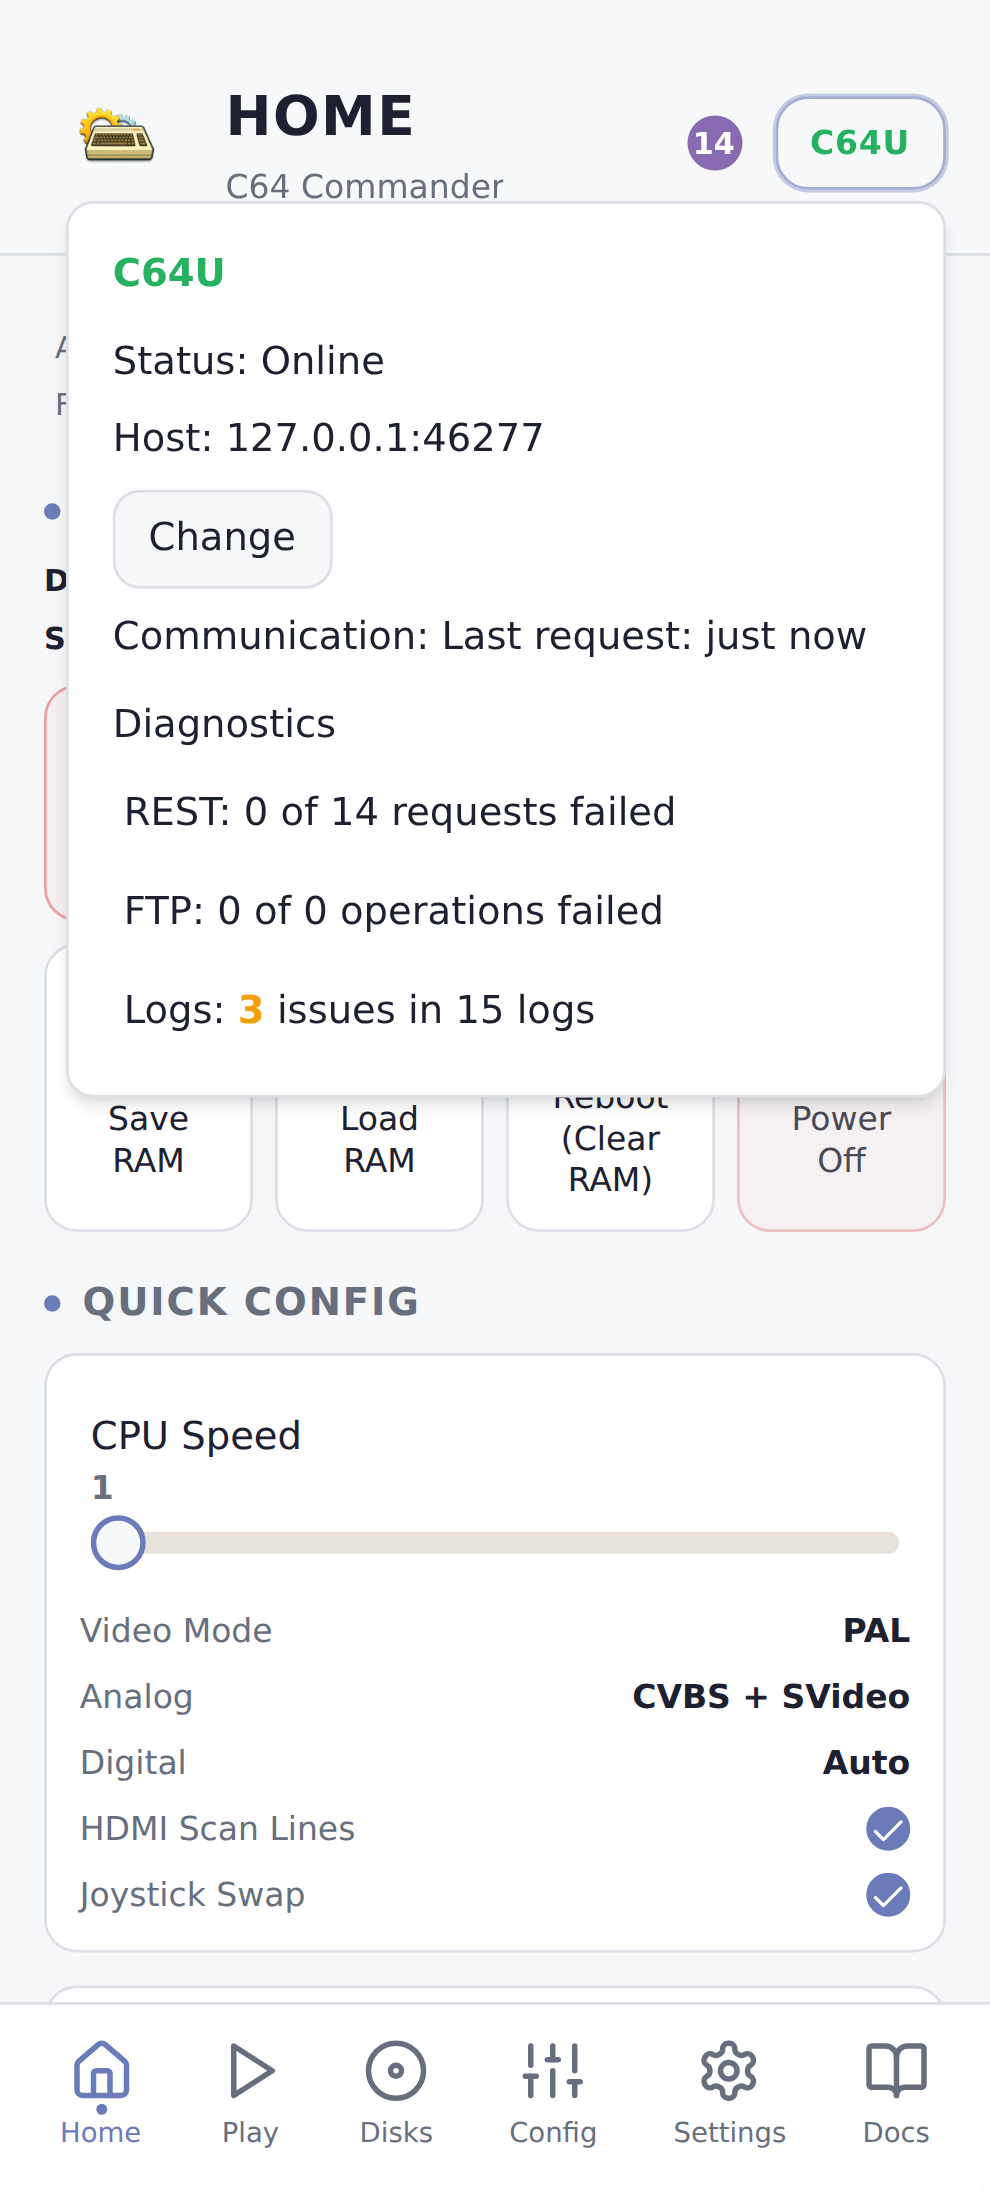
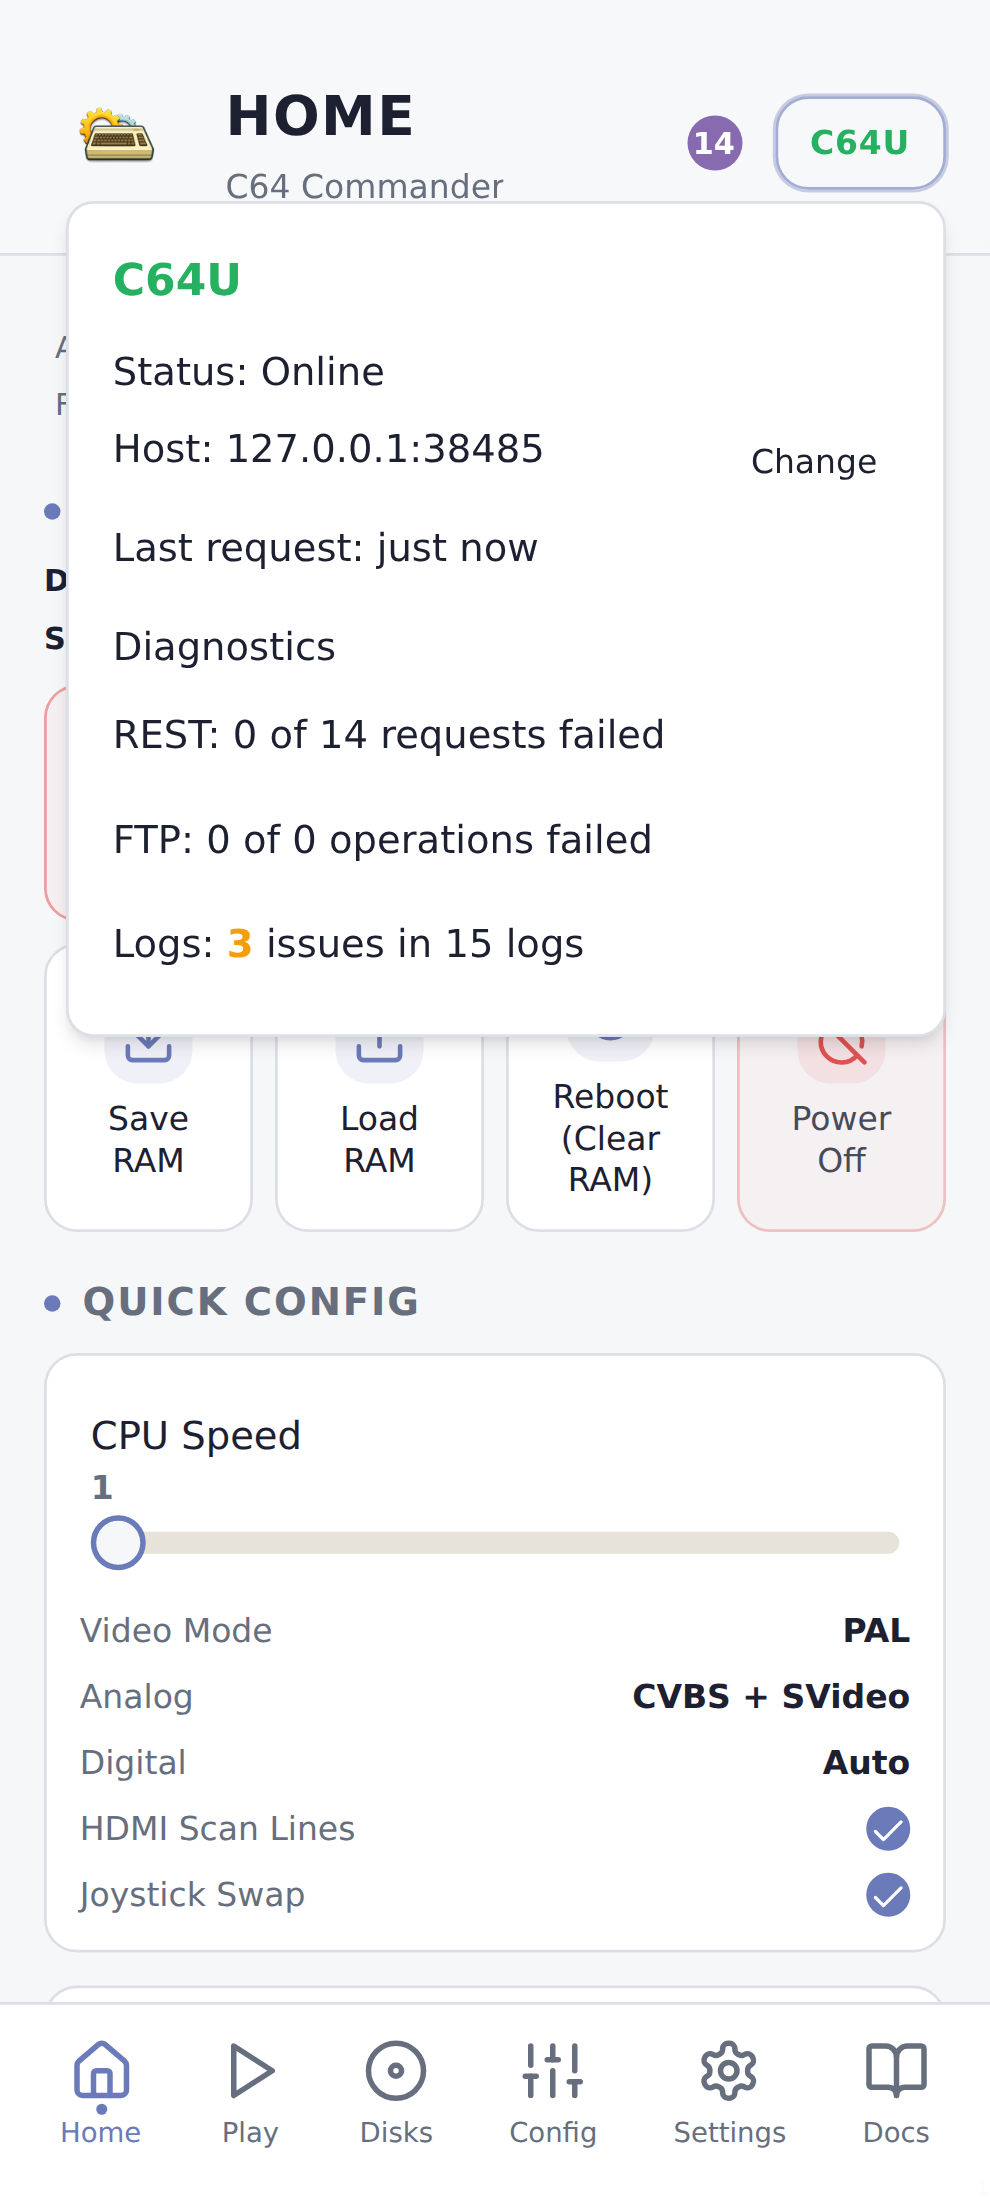
refine connection status popup structural symmetry and inline host row

diff --git a/src/components/ConnectivityIndicator.tsx b/src/components/ConnectivityIndicator.tsx
@@ -94,24 +94,19 @@ export function ConnectivityIndicator({ className }: Props) {
           ) : null}
         </button>
       </PopoverTrigger>
-      <PopoverContent align="end" className="w-80 space-y-3" data-testid="connection-status-popover">
-        <div className="space-y-1">
+      <PopoverContent align="end" className="w-80 space-y-4" data-testid="connection-status-popover">
+        <div className="space-y-3">
           <p
             className={cn(
-              'text-sm font-semibold',
+              'text-base font-semibold',
               isDemoMode ? 'text-amber-500 indicator-demo' : 'text-success indicator-real',
             )}
           >
             C64U
           </p>
-          {isDemoMode ? <p className="text-sm font-semibold text-amber-500 indicator-demo">Demo</p> : null}
-        </div>
-        <div className="space-y-2 text-sm">
+          {isDemoMode ? <p className="text-base font-semibold text-amber-500 indicator-demo">Demo</p> : null}
+          <div className="space-y-2 text-sm">
           <p><span className="font-medium">Status:</span> {status}</p>
-          <div className="space-y-2">
-            <p className="break-all">
-              <span className="font-medium">Host:</span> {configuredHost}
-            </p>
             {editingHost ? (
               <div className="flex items-center gap-2">
                 <Input
@@ -128,37 +123,42 @@ export function ConnectivityIndicator({ className }: Props) {
                 <Button size="sm" onClick={saveHostAndRetry}>Save</Button>
               </div>
             ) : (
-              <Button size="sm" variant="outline" onClick={() => setEditingHost(true)}>
-                Change
-              </Button>
+              <div className="flex items-start justify-between gap-2">
+                <p className="break-all">
+                  <span className="font-medium">Host:</span> {configuredHost}
+                </p>
+                <Button variant="ghost" className="h-7 px-2 text-xs" onClick={() => setEditingHost(true)}>
+                  Change
+                </Button>
+              </div>
             )}
+            <p><span className="font-medium">Last request:</span> {lastRequest}</p>
           </div>
-          <p><span className="font-medium">Communication:</span> Last request: {lastRequest}</p>
         </div>
-        <div className="space-y-2 text-sm" data-testid="connection-diagnostics-section">
+        <div className="space-y-1.5 text-sm" data-testid="connection-diagnostics-section">
           <p className="font-medium">Diagnostics</p>
-            <DiagnosticsRow
-              testId="connection-diagnostics-row-rest"
-              label="REST"
-              total={diagnosticsSummary.rest.total}
-              issueCount={diagnosticsSummary.rest.failed}
-              totalLabel={pluralize(diagnosticsSummary.rest.total, 'request', 'requests')}
-              issueLabel={pluralize(diagnosticsSummary.rest.failed, 'failed', 'failed')}
-              relationLabel="of"
-              severity={diagnosticsSummary.rest.severity}
-              onClick={() => openDiagnosticsTab('actions')}
-            />
+          <DiagnosticsRow
+            testId="connection-diagnostics-row-rest"
+            label="REST"
+            total={diagnosticsSummary.rest.total}
+            issueCount={diagnosticsSummary.rest.failed}
+            totalLabel={pluralize(diagnosticsSummary.rest.total, 'request', 'requests')}
+            issueLabel={pluralize(diagnosticsSummary.rest.failed, 'failed', 'failed')}
+            relationLabel="of"
+            severity={diagnosticsSummary.rest.severity}
+            onClick={() => openDiagnosticsTab('actions')}
+          />
           <DiagnosticsRow
             testId="connection-diagnostics-row-ftp"
             label="FTP"
-              total={diagnosticsSummary.ftp.total}
-              issueCount={diagnosticsSummary.ftp.failed}
-              totalLabel={pluralize(diagnosticsSummary.ftp.total, 'operation', 'operations')}
-              issueLabel={pluralize(diagnosticsSummary.ftp.failed, 'failed', 'failed')}
-              relationLabel="of"
-              severity={diagnosticsSummary.ftp.severity}
-              onClick={() => openDiagnosticsTab('actions')}
-            />
+            total={diagnosticsSummary.ftp.total}
+            issueCount={diagnosticsSummary.ftp.failed}
+            totalLabel={pluralize(diagnosticsSummary.ftp.total, 'operation', 'operations')}
+            issueLabel={pluralize(diagnosticsSummary.ftp.failed, 'failed', 'failed')}
+            relationLabel="of"
+            severity={diagnosticsSummary.ftp.severity}
+            onClick={() => openDiagnosticsTab('actions')}
+          />
           <DiagnosticsRow
             testId="connection-diagnostics-row-log-issues"
             label="Logs"
@@ -239,7 +239,7 @@ const DiagnosticsRow = ({
   return (
     <button
       type="button"
-      className="flex w-full items-center gap-2 rounded-sm px-1 py-1 text-left text-sm hover:bg-muted/60"
+      className="w-full py-1.5 text-left text-sm hover:underline"
       onClick={onClick}
       aria-label={`${label}: ${issueCount} ${issueLabel} of ${total} ${totalLabel} (${severity} severity)`}
       data-testid={testId}

diff --git a/tests/unit/components/ConnectivityIndicator.test.tsx b/tests/unit/components/ConnectivityIndicator.test.tsx
@@ -69,7 +69,7 @@ describe('ConnectivityIndicator', () => {
     requestDiagnosticsOpen.mockReset();
   });
 
-  it('renders real mode indicator and opens status pop-up on click', () => {
+  it('renders real mode indicator and opens status pop-up with last-request line', () => {
     connectionState = 'REAL_CONNECTED';
     lastProbeAtMs = Date.now() - 2_000;
     lastProbeSucceededAtMs = Date.now() - 2_000;
@@ -85,6 +85,7 @@ describe('ConnectivityIndicator', () => {
 
     fireEvent.click(button);
     expect(getByTestId('connection-status-popover')).toBeTruthy();
+    expect(getByTestId('connection-status-popover').textContent).toMatch(/Last request:\s+(just now|\d+[smhd] ago|none yet)/);
     expect(discoverConnection).not.toHaveBeenCalled();
   });
 
@@ -167,5 +168,26 @@ describe('ConnectivityIndicator', () => {
 
     fireEvent.click(restRow);
     expect(requestDiagnosticsOpen).toHaveBeenCalledWith('actions');
+  });
+
+  it('renders host and change action on one row before edit mode', () => {
+    const { getByTestId, getByRole } = render(<ConnectivityIndicator />);
+    fireEvent.click(getByTestId('connectivity-indicator'));
+
+    const popover = getByTestId('connection-status-popover');
+    expect(popover.textContent).toContain(`Host: ${configuredHost}`);
+    expect(getByRole('button', { name: 'Change' })).toBeTruthy();
+  });
+
+  it('uses a two-group popover structure with direct last request line', () => {
+    const { getByTestId } = render(<ConnectivityIndicator />);
+    fireEvent.click(getByTestId('connectivity-indicator'));
+
+    const popover = getByTestId('connection-status-popover');
+    expect(popover.className).toContain('space-y-4');
+    expect(popover.firstElementChild?.className).toContain('space-y-3');
+    expect(getByTestId('connection-diagnostics-section').className).toContain('space-y-1.5');
+    expect(popover.textContent).toContain('Last request:');
+    expect(popover.textContent).not.toContain('Communication:');
   });
 });

diff --git a/playwright/demoMode.spec.ts b/playwright/demoMode.spec.ts
@@ -197,13 +197,19 @@ test.describe('Automatic Demo Mode', () => {
     const ftpRow = popover.getByTestId('connection-diagnostics-row-ftp');
     const logIssuesRow = popover.getByTestId('connection-diagnostics-row-log-issues');
 
+    await expect(popover).toContainText(/Last request:\s+(just now|\d+[smhd] ago|none yet)/i);
+    await expect(popover.getByRole('button', { name: 'Change' })).toBeVisible();
     await expect(restRow).toContainText(/REST:\s+\d+\s+of\s+\d+\s+requests\s+failed/i);
     await expect(ftpRow).toContainText(/FTP:\s+\d+\s+of\s+\d+\s+operations\s+failed/i);
     await expect(logIssuesRow).toContainText(/Logs:\s+\d+\s+issues\s+in\s+\d+\s+logs/i);
 
+    const popoverLocator = page.getByTestId('connection-status-popover');
     await restRow.click();
+    await expect(page.getByRole('dialog', { name: 'Diagnostics' })).toBeVisible();
+    await expect(popoverLocator).toHaveCount(0);
     await expect(page.getByRole('tab', { name: 'Actions' })).toHaveAttribute('aria-selected', 'true');
     await closeDiagnosticsDialog();
+    await expect(popoverLocator).toHaveCount(0);
 
     const popoverAfterRest = await openPopover();
     await popoverAfterRest.getByTestId('connection-diagnostics-row-ftp').click();

diff --git a/PLANS.md b/PLANS.md
@@ -1,12 +1,14 @@
-# Connection Status Pop-up Finalization Plan
+# Connection Status Pop-up Layout Correction Plan
 
-- [x] Investigate latest CI failure context and retrieve failed job logs.
-- [x] Update Diagnostics rows to text-only format (no bullets/circles), with strict grammar and deterministic row presence.
-- [x] Standardize communication timing line to a single `Last request` format.
-- [x] Keep deterministic diagnostics row navigation to tabs (REST/FTP → Actions, Logs → Errors).
-- [x] Update unit tests and Playwright diagnostics assertions for the revised text format.
-- [x] Extend screenshot generation to capture the Connection Status pop-up.
-- [x] Update `README.md` to include the new Connection Status pop-up screenshot.
-- [x] Run required validation (`npm run test`, targeted Playwright, `npm run lint`, `npm run build`, `npm run test:coverage`) and fix regressions if found.
-- [x] Run `code_review` and `codeql_checker`, address findings.
-- [ ] Reply to PR comment with commit hash and screenshot.
+- [x] Check latest GitHub Actions workflow runs and inspect failing job logs.
+- [x] Refine pop-up to strict two-group structure with spacing-only separation and no nested visual surfaces.
+- [x] Promote the `C64U`/`C64U Demo` heading to the largest typography in the panel.
+- [x] Move non-editing `Host` + `Change` control onto one inline row while preserving edit flow behavior.
+- [x] Enforce `Last request: …` line contract directly (without extra wrapper label text).
+- [x] Remove diagnostics row indentation/surface styling while keeping deterministic navigation.
+- [x] Align close/transition behavior with diagnostics modal patterns and cover it in Playwright.
+- [x] Update unit + Playwright tests for revised layout and interaction contracts.
+- [x] Refresh screenshot output for the Connection Status pop-up and keep docs references correct.
+- [x] Run full validation (`npm run test`, targeted Playwright, `npm run lint`, `npm run build`, `npm run test:coverage`).
+- [x] Run `code_review` then `codeql_checker` and address findings.
+- [ ] Reply to the new PR comment with commit hash + screenshot.
